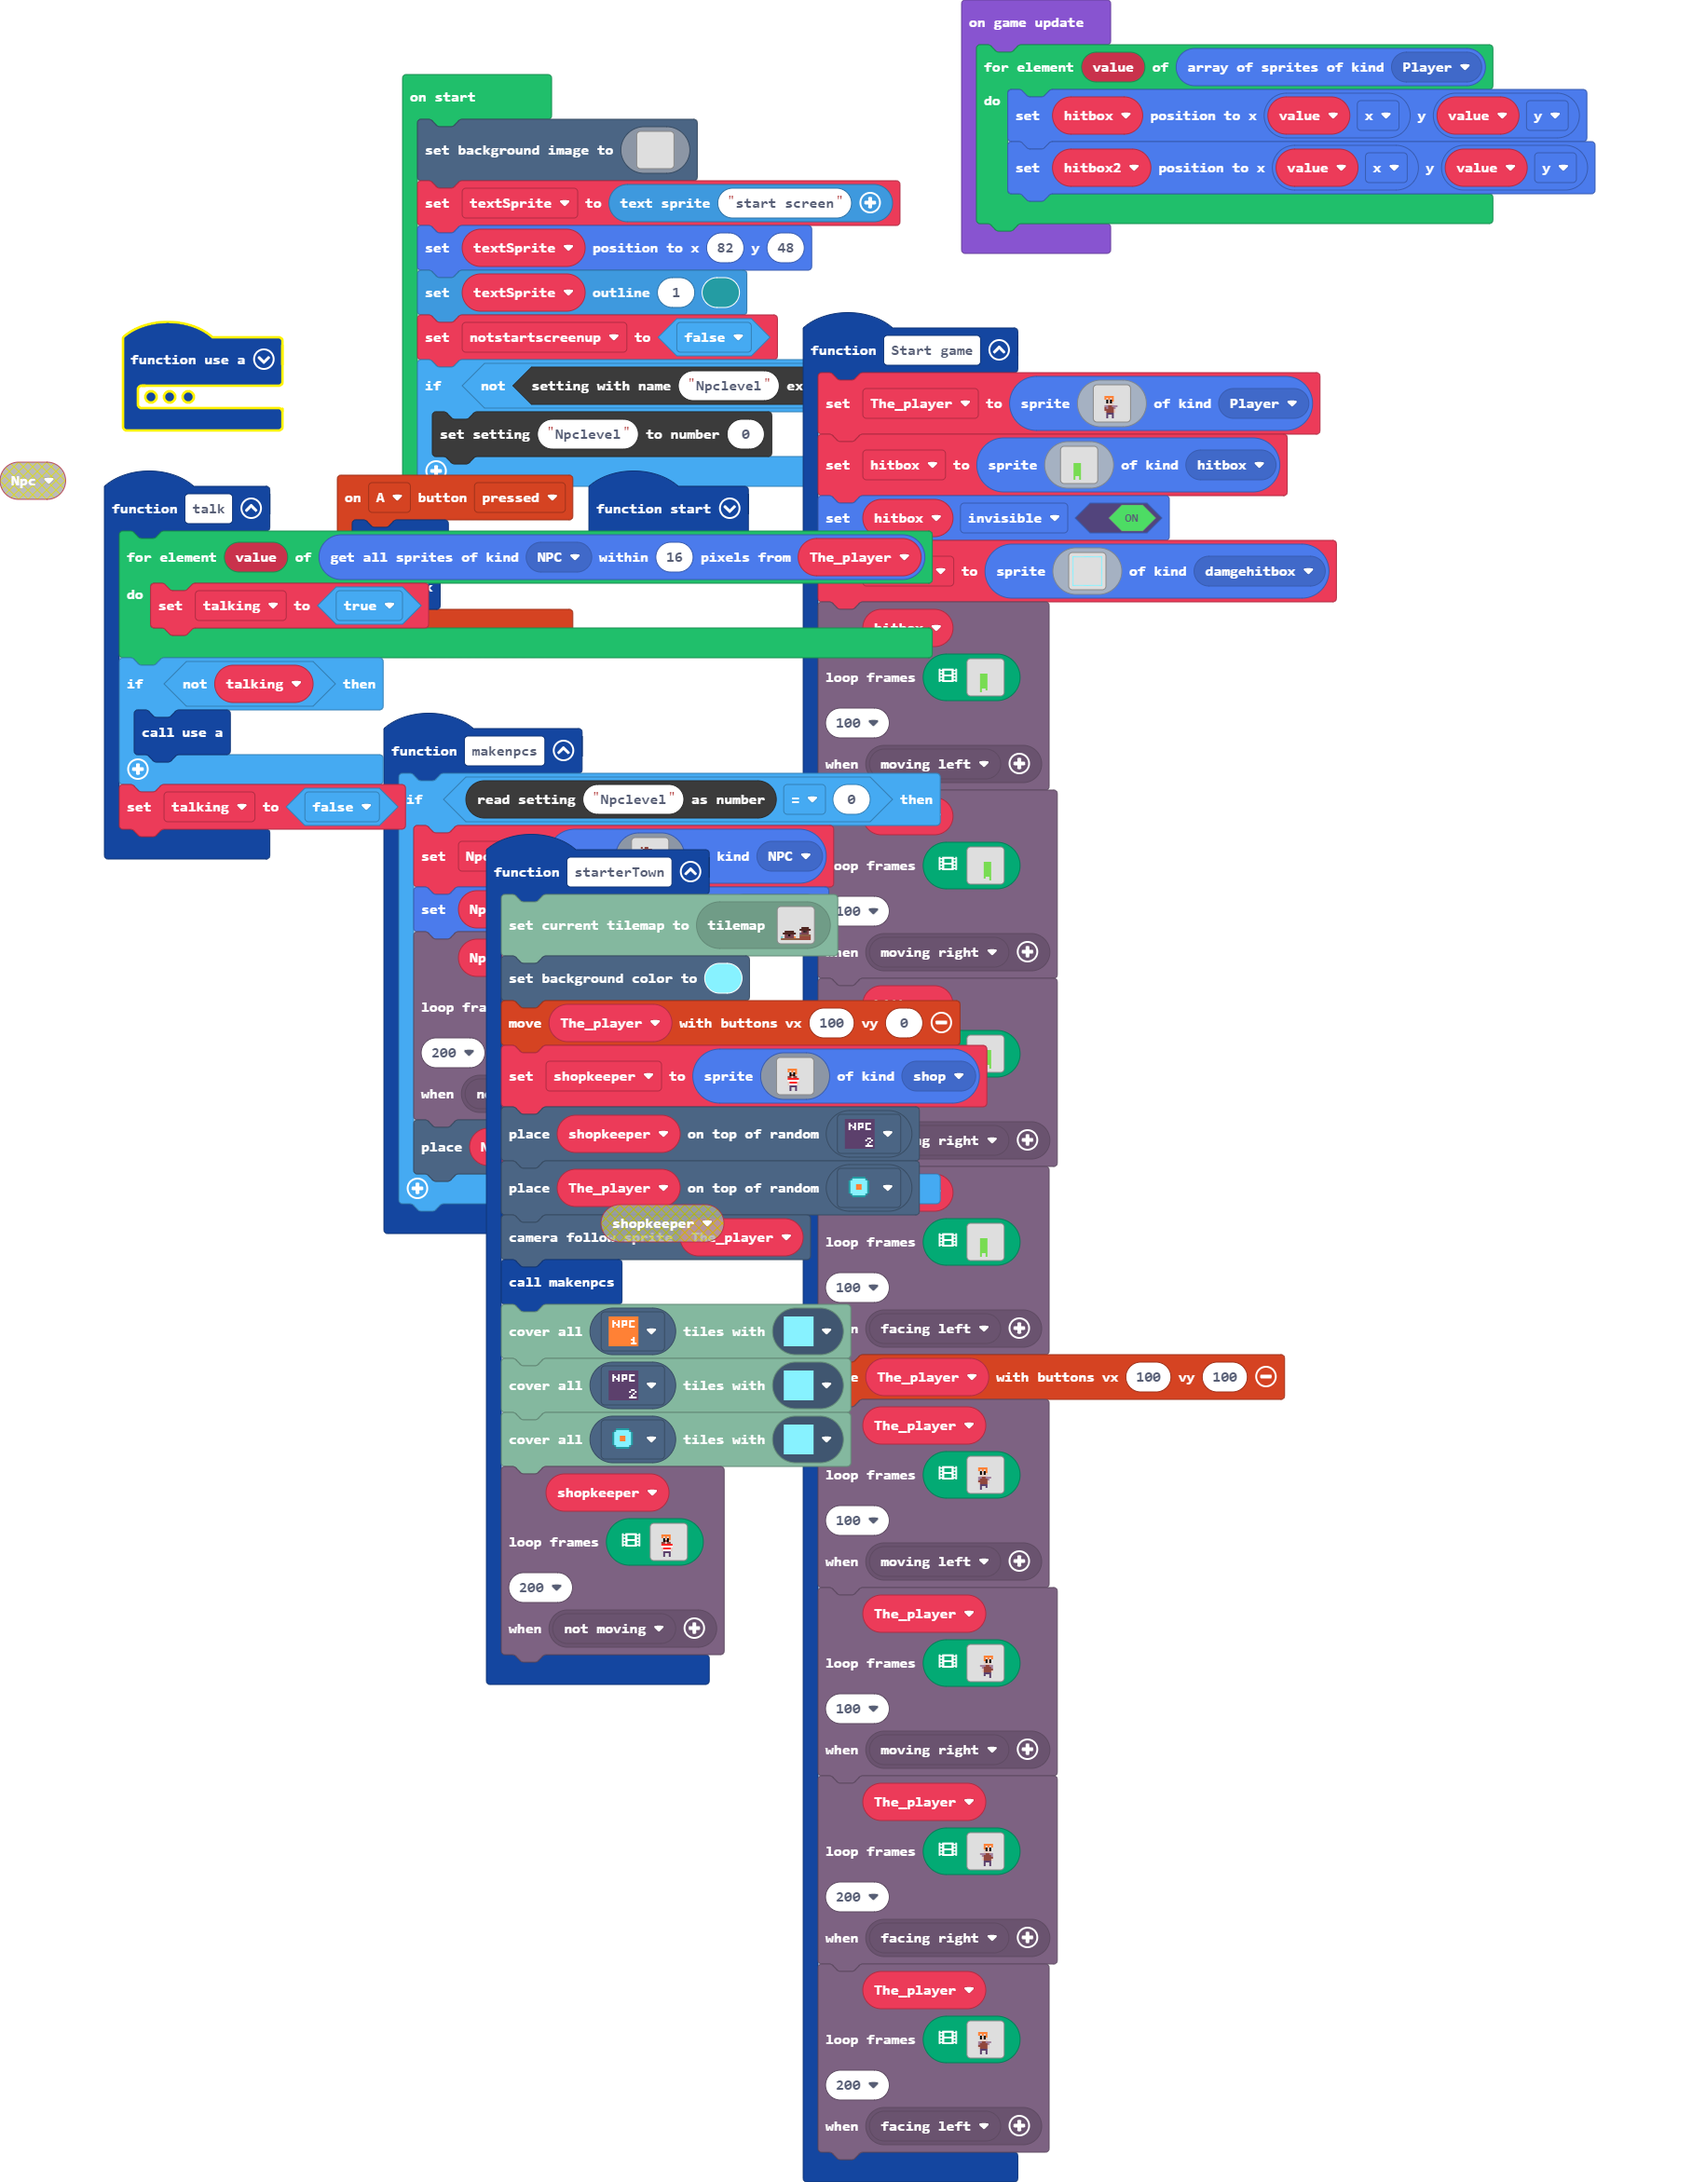
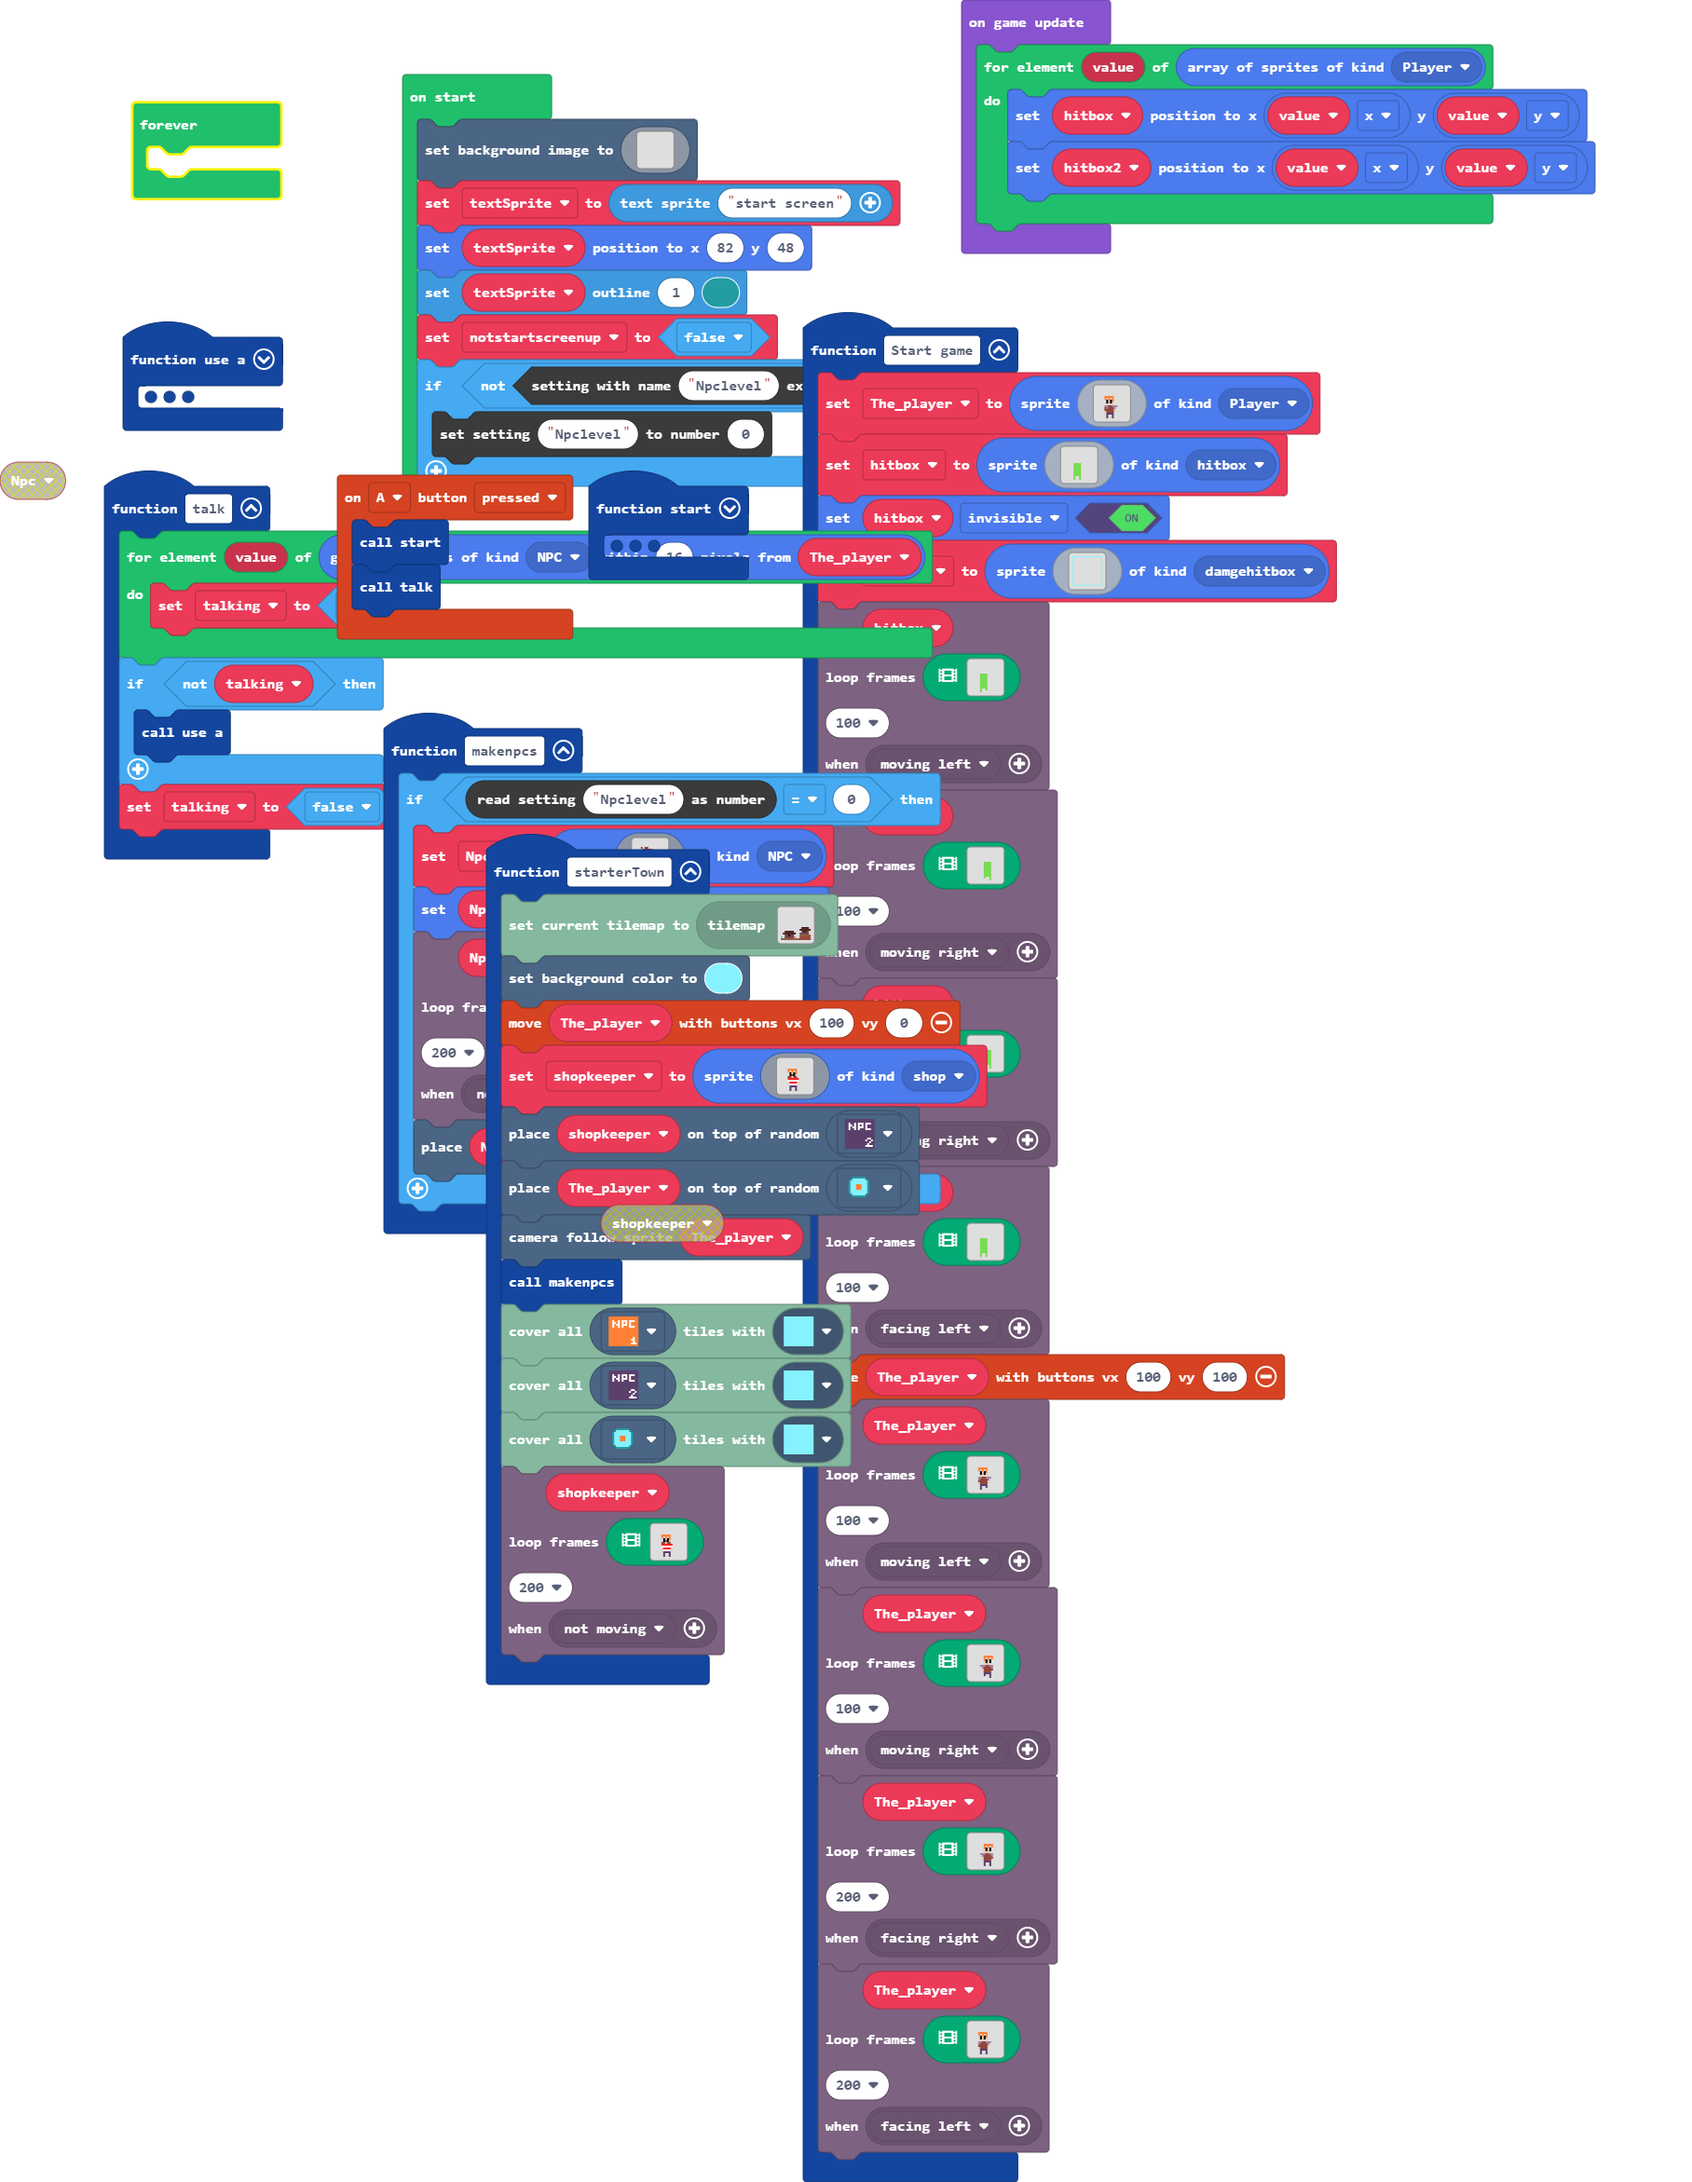
Update main.blocks, main.ts

diff --git a/main.ts b/main.ts
@@ -1105,3 +1105,6 @@ game.onUpdate(function () {
         hitbox2.setPosition(value.x, value.y)
     }
 })
+forever(function () {
+	
+})
